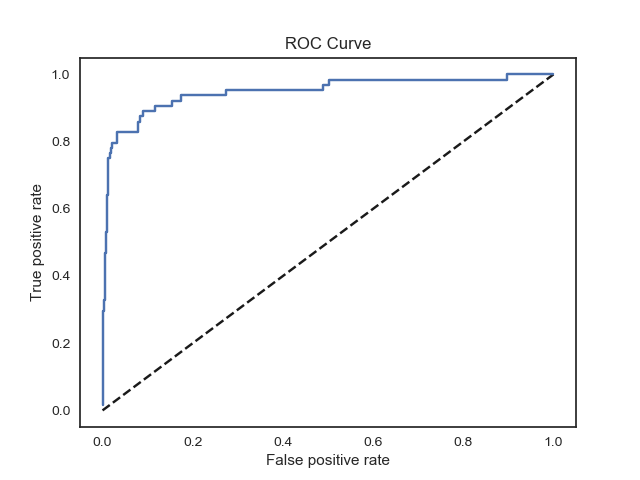
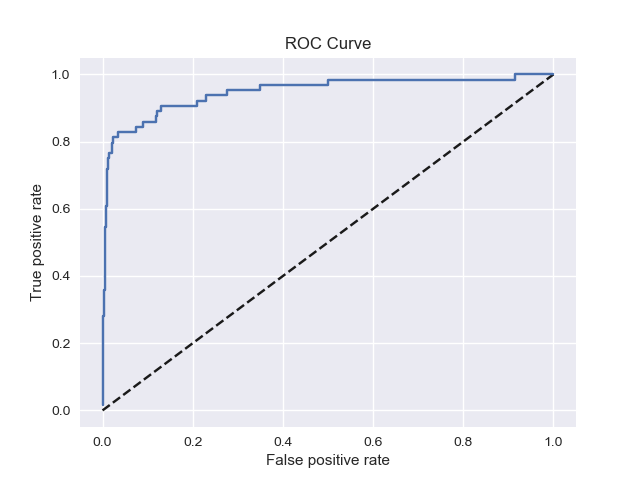
Dset visualization completed.

diff --git a/Util.py b/Util.py
@@ -5,7 +5,7 @@ import warnings # current version of seaborn generates a bunch of warnings that 
 warnings.filterwarnings("ignore")
 import seaborn as sns
 import matplotlib.pyplot as plt
-sns.set(style="white", color_codes=True)
+sns.set(color_codes=True)
 
 
 
@@ -80,6 +80,7 @@ def plot_roc_curve(y_test, y_pred, arch_idx = None):
 	fig.savefig(file)
 
 def plot_scatter_matrix(dset, hue):
-	fig = sns.pairplot(dset, hue=hue)
-	fig.savefig("./results/dset_scat_matrix.png")
+	g = sns.pairplot(dset, hue=hue, vars=["f1", "f2", "f3", "f4", "f5", "f6"], markers=["o", "x"])
+	g.fig.get_children()[-1].set_bbox_to_anchor((1.1, 0.5, 0, 0))
+	g.savefig("./results/dset_scat_matrix.png")
 
